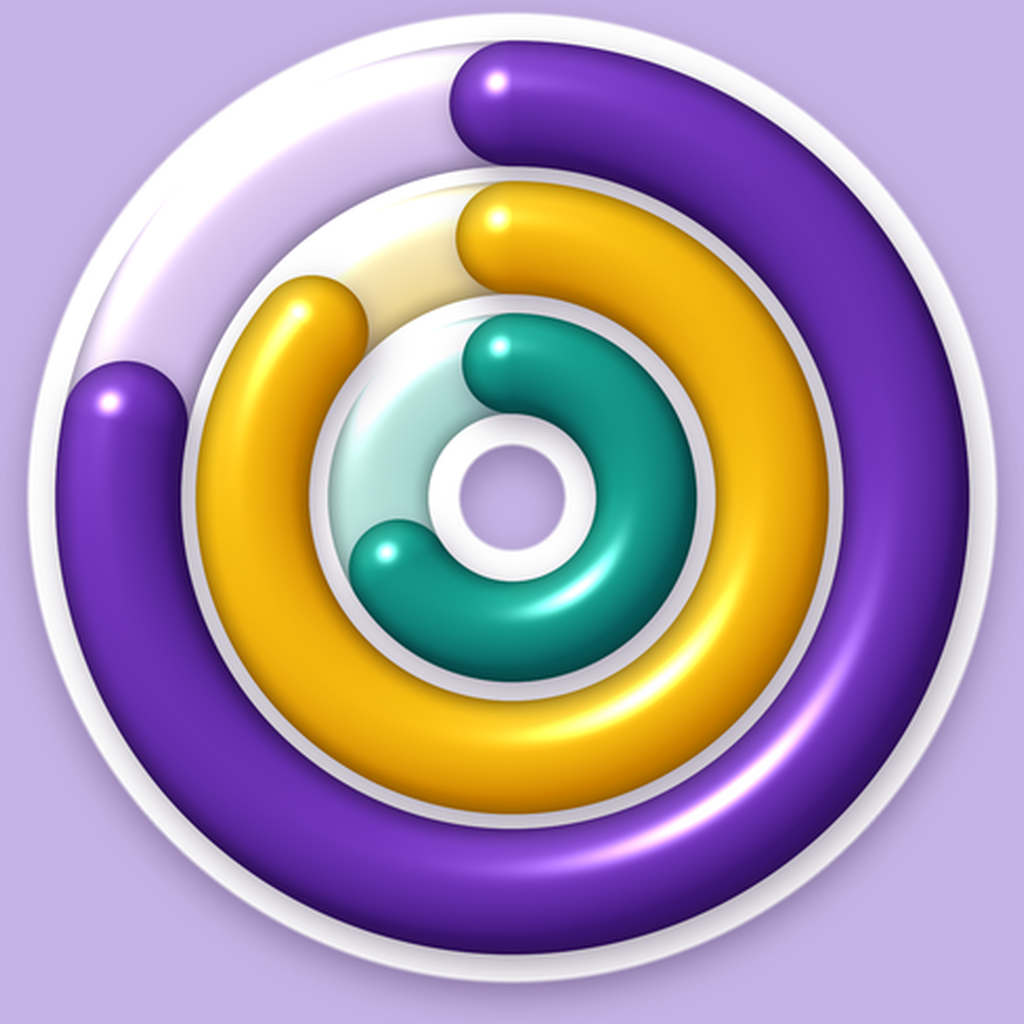
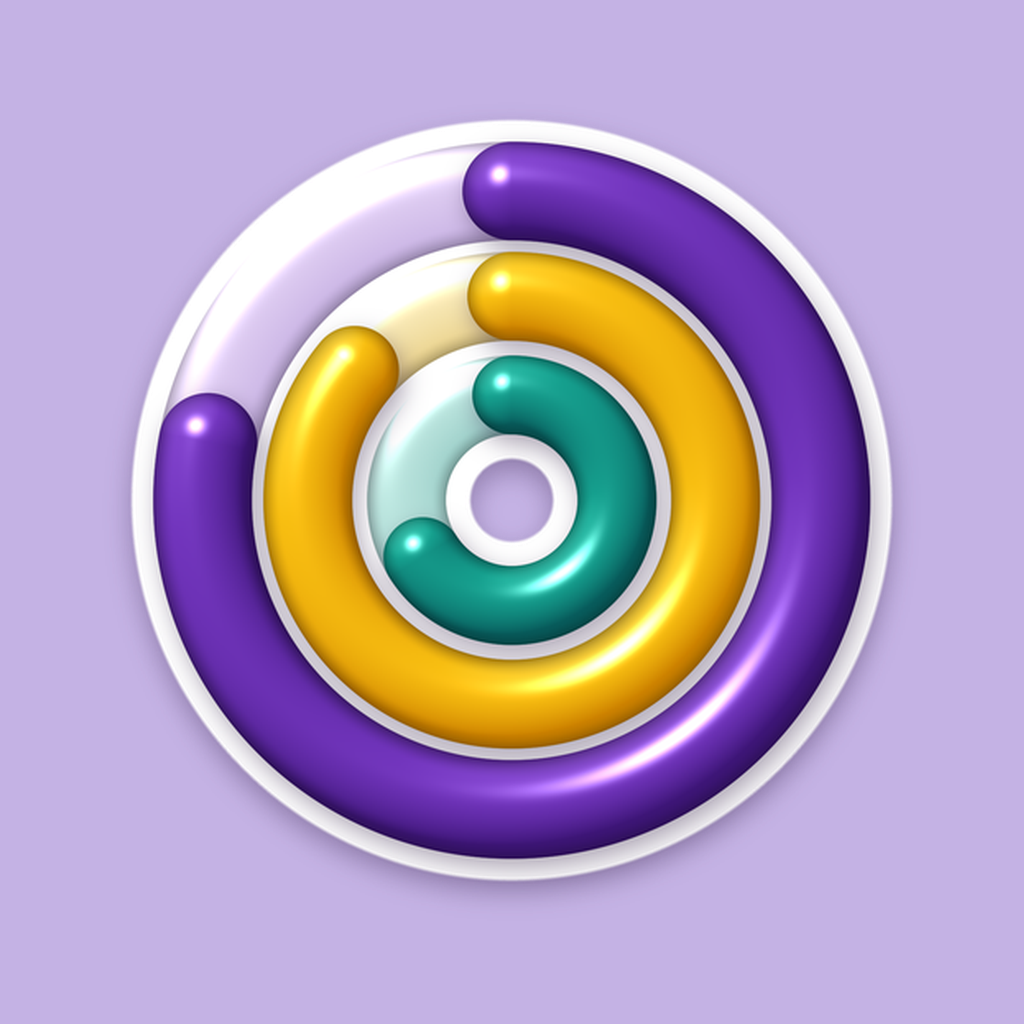
Иконка трекера: диаметр колец как у знака ANGLE
Claude-Session: https://claude.ai/code/session_01AUrvF84t1YRqqJfUXViYUR

diff --git a/handoffs/2026-11-14-tracker-ios-icon.md b/handoffs/2026-11-14-tracker-ios-icon.md
@@ -9,4 +9,4 @@
 - Родительские и ученические виды трекера — те же страницы (отдельных нет), поэтому иконка действует и на них.
 - Вид на самом iPhone не проверялся (только предпросмотр PNG).
 
-**Обновление:** кольца увеличены (обрезаны прозрачные поля, ~90% ширины), родные цвета колец оставлены по решению Виктории; суффикс версии `t4`; кольца ещё крупнее (~102% ширины, белый ободок касается краёв). Фон `#c4b2e4` совпадает с иконкой ANGLE.
+**Обновление:** кольца увеличены (обрезаны прозрачные поля, ~90% ширины), родные цвета колец оставлены по решению Виктории; суффикс версии `t5`; диаметр колец = ширина знака ANGLE на общей иконке (~80% квадрата). Фон `#c4b2e4` совпадает с иконкой ANGLE.
